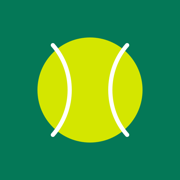
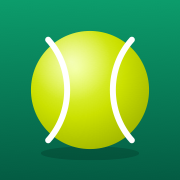
アプリ名を「テニスノート」に変更しアイコンを刷新
- 表示名・PWAマニフェスト・タイトル・README・引き継ぎ書を「テニスノート」に統一
- アイコンを刷新：エメラルドのグラデ背景＋立体感のあるテニスボール
  （放射グラデ・シーム曲線・落ち影・ハイライト）。favicon/PWA/apple-touch を再生成

diff --git a/index.html b/index.html
@@ -6,11 +6,11 @@
     <link rel="apple-touch-icon" href="/apple-touch-icon.png" />
     <meta name="viewport" content="width=device-width, initial-scale=1.0, viewport-fit=cover" />
     <meta name="theme-color" content="#047857" />
-    <meta name="description" content="張ったガットの種類・テンション・練習時間を記録し、張り替え時期を管理するアプリ" />
+    <meta name="description" content="ガットの張り替え履歴と練習記録をつけ、張り替え時期を管理するテニス用ノートアプリ" />
     <meta name="apple-mobile-web-app-capable" content="yes" />
     <meta name="apple-mobile-web-app-status-bar-style" content="default" />
-    <meta name="apple-mobile-web-app-title" content="ガット歴" />
-    <title>ガット使用歴トラッカー</title>
+    <meta name="apple-mobile-web-app-title" content="テニスノート" />
+    <title>テニスノート</title>
     <script>
       // 描画前にテーマを確定させてちらつきを防ぐ（保存値 → なければOS設定）
       try {

diff --git a/vite.config.ts b/vite.config.ts
@@ -17,9 +17,9 @@ export default defineConfig({
       registerType: 'autoUpdate',
       includeAssets: ['favicon.svg', 'apple-touch-icon.png'],
       manifest: {
-        name: 'ガット使用歴トラッカー',
-        short_name: 'ガット歴',
-        description: '張ったガットの種類・テンション・練習時間を記録し、張り替え時期を管理するアプリ',
+        name: 'テニスノート',
+        short_name: 'テニスノート',
+        description: 'ガットの張り替え履歴と練習記録をつけ、張り替え時期を管理するテニス用ノートアプリ',
         lang: 'ja',
         theme_color: '#047857',
         background_color: '#f9fafb',

diff --git a/src/App.tsx b/src/App.tsx
@@ -46,7 +46,7 @@ function App() {
         <div className="mx-auto flex max-w-4xl items-center justify-between gap-3 px-4 py-3">
           <h1 className="flex min-w-0 items-center gap-2 text-base font-bold tracking-tight sm:text-lg">
             <span className="text-xl leading-none" aria-hidden>🎾</span>
-            <span className="truncate">ガット使用歴トラッカー</span>
+            <span className="truncate">テニスノート</span>
           </h1>
           <div className="flex shrink-0 items-center gap-1">
             <ThemeToggle />

diff --git a/HANDOVER.md b/HANDOVER.md
@@ -1,6 +1,6 @@
-# 引き継ぎ書 — ガット使用歴トラッカー
+# 引き継ぎ書 — テニスノート
 
-テニスのガット（ストリング）の張り替え履歴・練習時間を記録し、張り替え時期を管理するWebアプリ。
+テニスのガット（ストリング）の張り替え履歴・練習時間を記録し、張り替え時期を管理するWebアプリ（旧称「ガット使用歴トラッカー」）。
 
 - **公開URL**: https://yuichi0306.github.io/tennis-gut-tracker/
 - **リポジトリ**: https://github.com/yuichi0306/tennis-gut-tracker （パブリック）

diff --git a/README.md b/README.md
@@ -1,6 +1,6 @@
-# テニスガット使用歴トラッカー
+# テニスノート
 
-張ったガットの種類・テンション・練習時間を記録し、張り替え時期を管理するWebアプリです。
+ガットの張り替え履歴と練習記録をつけ、張り替え時期を管理するテニス用のWebアプリです。
 
 ## 機能
 